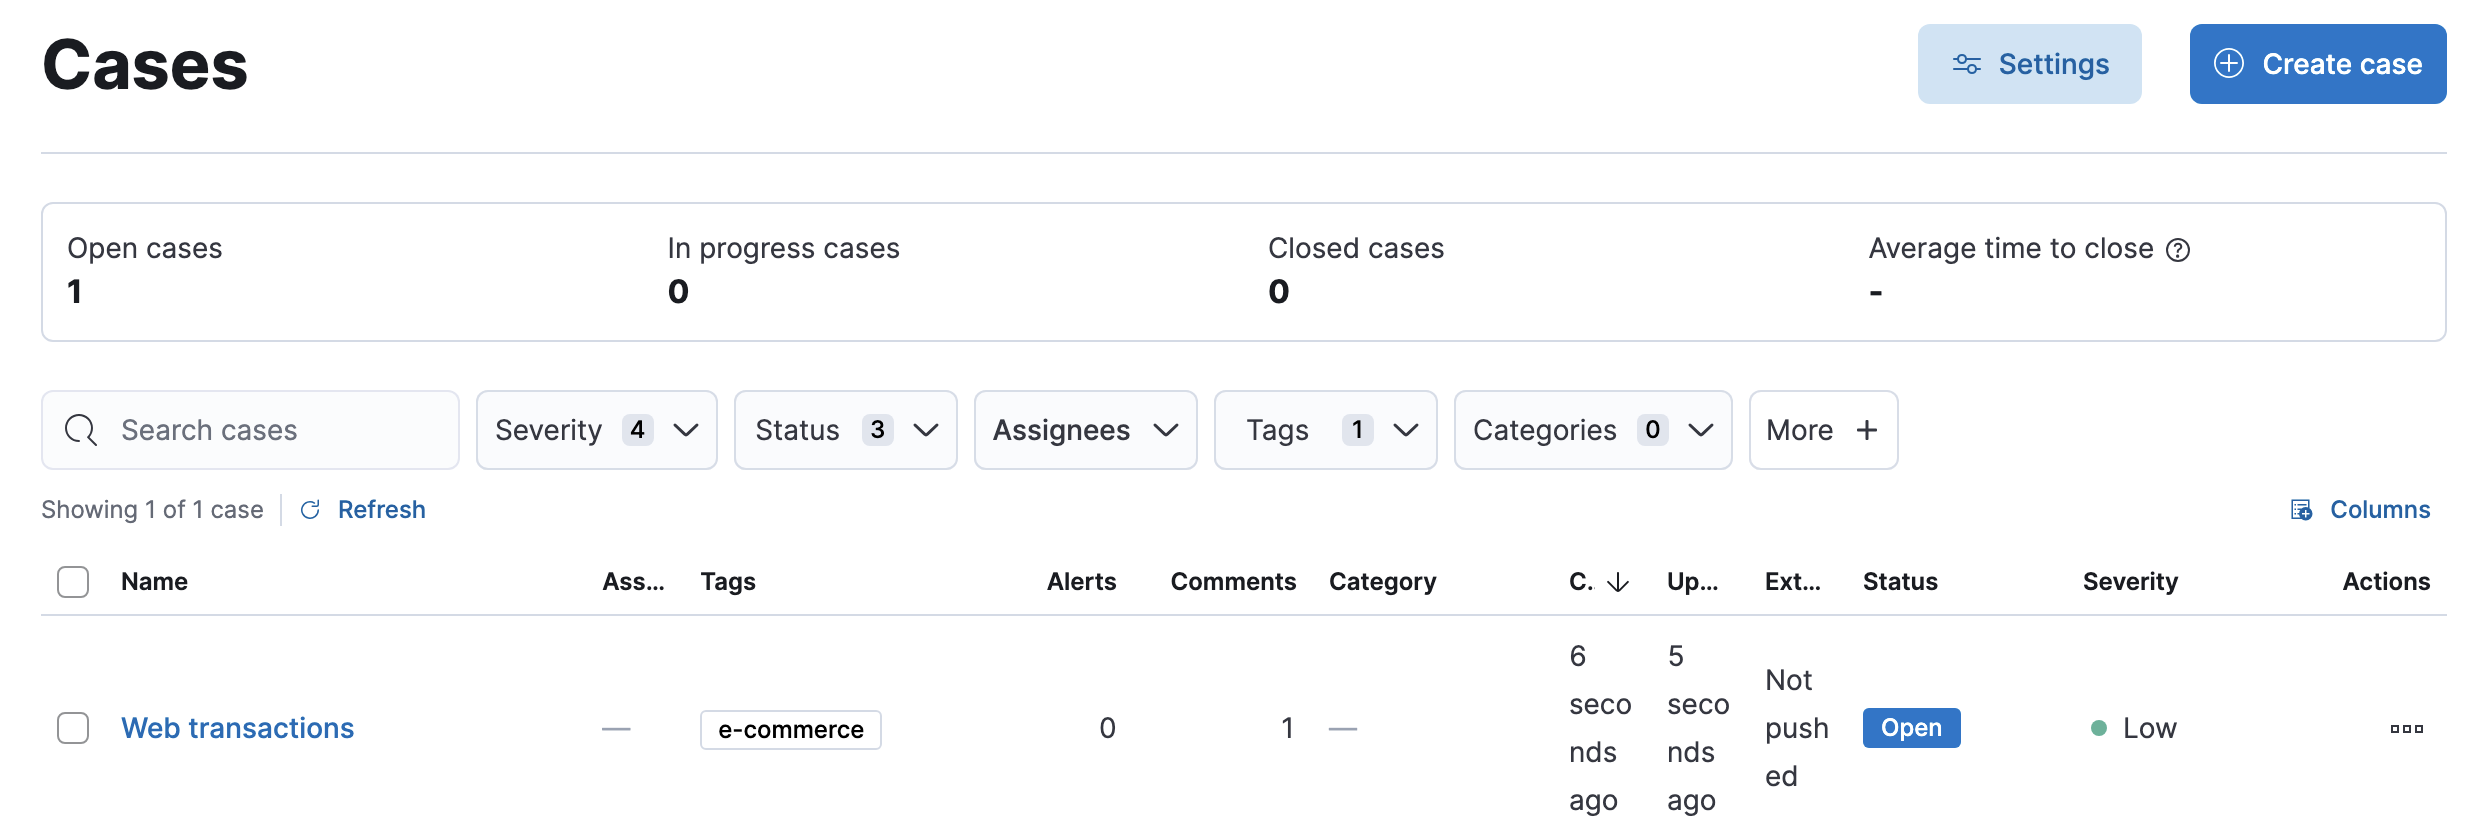
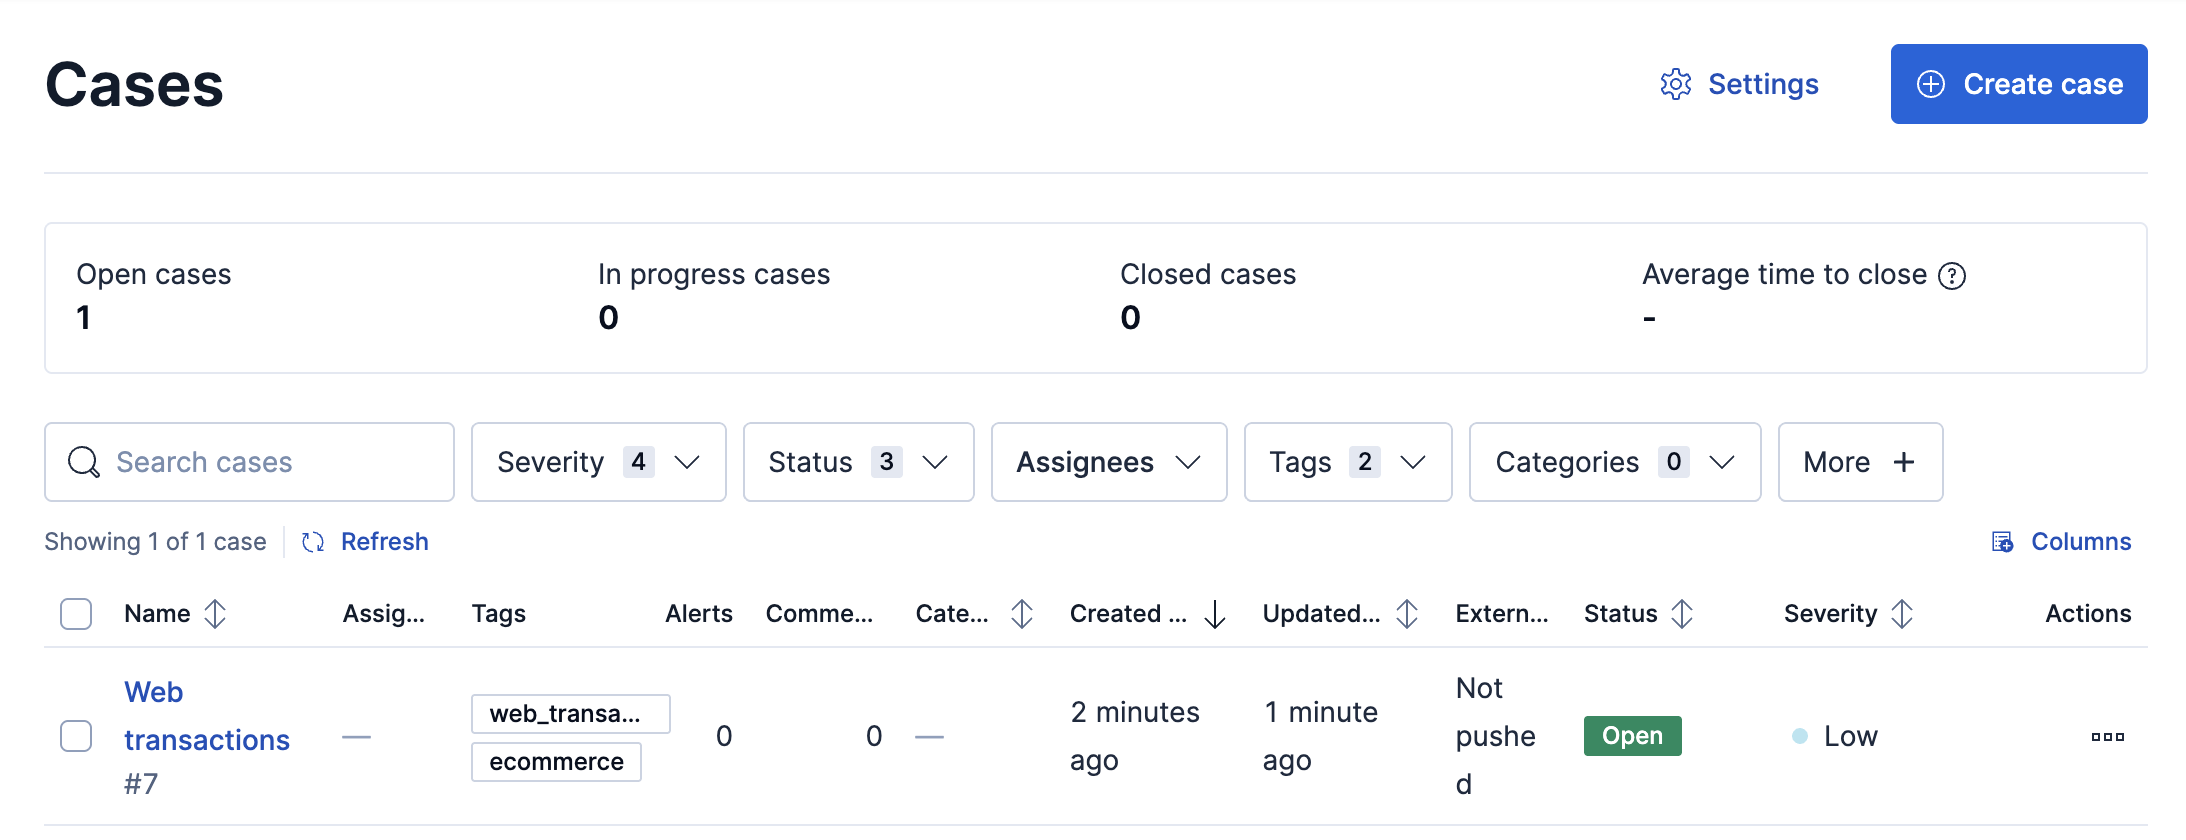
[Cases][Serverless & 9.2]: Docs for incremental case IDs (#3358)
Fixes https://github.com/elastic/docs-content/issues/3255 and
https://github.com/elastic/docs-content/issues/1758 by explaining that
cases are automatically assigned human-readable numeric IDs, which you
can use for easier referencing. Also refreshed outdated images of the
Cases table and removed case screenshots that weren't adding value and
were outdated.

Previews:
- [Stack management
cases](https://docs-v3-preview.elastic.dev/elastic/docs-content/pull/3358/explore-analyze/alerts-cases/cases)
- [Observability
cases](https://docs-v3-preview.elastic.dev/elastic/docs-content/pull/3358/solutions/observability/incident-management/cases)
- [Security
cases](https://docs-v3-preview.elastic.dev/elastic/docs-content/pull/3358/solutions/security/investigate/cases)

diff --git a/solutions/security/investigate/open-manage-cases.md b/solutions/security/investigate/open-manage-cases.md
@@ -45,12 +45,6 @@ Open a new case to keep track of security issues and share their details with co
     If you’ve selected a connector for the case, the case is automatically pushed to the third-party system it’s connected to.
     ::::
 
-
-:::{image} /solutions/images/security-cases-ui-open.png
-:alt: Shows an open case
-:screenshot:
-:::
-
 % Check with Lisa if email notifications is an ESS-only feature. Not in Serverless docs: https://www.elastic.co/guide/en/serverless/current/security-cases-open-manage.html
 
 ## Add email notifications [cases-ui-notifications]
@@ -81,11 +75,6 @@ When you subsequently add assignees to cases, they receive an email.
 ## Manage existing cases [cases-ui-manage]
 
 From the Cases page, you can search existing cases and filter them by attributes such as assignees, categories, severity, status, and tags. You can also select multiple cases and use bulk actions to delete cases or change their attributes. General case metrics, including how long it takes to close cases, are provided above the table.
-
-:::{image} /solutions/images/security-cases-home-page.png
-:alt: Case UI Home
-:screenshot:
-:::
 
 To explore a case, click on its name. You can then:
 
@@ -119,12 +108,6 @@ Click on an existing case to access its summary. The case summary, located under
 * **In progress duration**: How long the case has been in the `In progress` state
 * **Duration from creation to close**: Time elapsed from when the case was created to when it was closed
 
-:::{image} /solutions/images/security-cases-summary.png
-:alt: Shows you a summary of the case
-:screenshot:
-:::
-
-
 ### Manage case comments [cases-manage-comments]
 
 To edit, delete, or quote a comment, select the appropriate option from the **More actions** menu (**…**).
@@ -157,14 +140,7 @@ After adding events to cases from the Events table (which you can access from th
 
 ### Add files [cases-add-files]
 
-To upload files to a case, click the **Files** tab:
-
-:::{image} /solutions/images/security-cases-files.png
-:alt: A list of files attached to a case
-:screenshot:
-:::
-
-You can set file types and sizes by configuring your [{{kib}} case settings](kibana://reference/configuration-reference/cases-settings.md).
+To upload files to a case, select the **Files** tab, then click **Add files**. You can set file types and sizes by configuring your [{{kib}} case settings](kibana://reference/configuration-reference/cases-settings.md).
 
 % Check with Lisa whether following note is only applicable to Serverless or if it's for ESS too.
 

diff --git a/solutions/security/investigate/cases.md b/solutions/security/investigate/cases.md
@@ -16,6 +16,8 @@ navigation_title: Cases
 
 Collect and share information about security issues by opening a case in {{elastic-sec}}. Cases allow you to track key investigation details, collect alerts in a central location, and more. The {{elastic-sec}} UI provides several ways to create and manage cases. Alternatively, you can use the [cases API](https://www.elastic.co/docs/api/doc/kibana/group/endpoint-cases) to perform the same tasks.
 
+{applies_to}`stack: ga 9.2` Cases are automatically assigned human-readable numeric IDs, which you can use for easier referencing. Each time you create a new case in your [space](docs-content://deploy-manage/manage-spaces.md), the case ID increments by one. IDs are assigned to cases by a background task that runs every 10 minutes, which can cause a delay in ID assignment, especially in spaces with many cases. You can find the case ID after the case's name and can use it while searching the Cases table.
+
 You can also send cases to these external systems by [configuring external connectors](/solutions/security/investigate/configure-case-settings.md#cases-ui-integrations):
 
 * {{sn-itsm}}

diff --git a/solutions/observability/incident-management/cases.md b/solutions/observability/incident-management/cases.md
@@ -12,6 +12,8 @@ navigation_title: Cases
 
 Collect and share information about observability issues by creating a case. Cases allow you to track key investigation details, add assignees and tags to your cases, set their severity and status, and add alerts, comments, and visualizations. You can also send cases to third-party systems by [configuring external connectors](/solutions/observability/incident-management/configure-case-settings.md).
 
+{applies_to}`stack: ga 9.2` Cases are automatically assigned human-readable numeric IDs, which you can use for easier referencing. Each time you create a new case in your [space](docs-content://deploy-manage/manage-spaces.md), the case ID increments by one. IDs are assigned to cases by a background task that runs every 10 minutes, which can cause a delay in ID assignment, especially in spaces with many cases. You can find the case ID after the case's name and can use it while searching the Cases table.
+
 :::{image} /solutions/images/observability-cases.png
 :alt: Cases page
 :screenshot:

diff --git a/explore-analyze/alerts-cases/cases.md b/explore-analyze/alerts-cases/cases.md
@@ -15,6 +15,8 @@ Cases are used to open and track issues directly in {{kib}}. You can add assigne
 
 {applies_to}`stack: preview` {applies_to}`serverless: preview` You can also optionally add custom fields and case templates.
 
+{applies_to}`stack: ga 9.2` Cases are automatically assigned human-readable numeric IDs, which you can use for easier referencing. Each time you create a new case in your [space](docs-content://deploy-manage/manage-spaces.md), the case ID increments by one. IDs are assigned to cases by a background task that runs every 10 minutes, which can cause a delay in ID assignment, especially in spaces with many cases. You can find the case ID after the case's name and can use it while searching the Cases table.
+
 :::{image} /explore-analyze/images/kibana-cases-list.png
 :alt: Cases page
 :screenshot:
